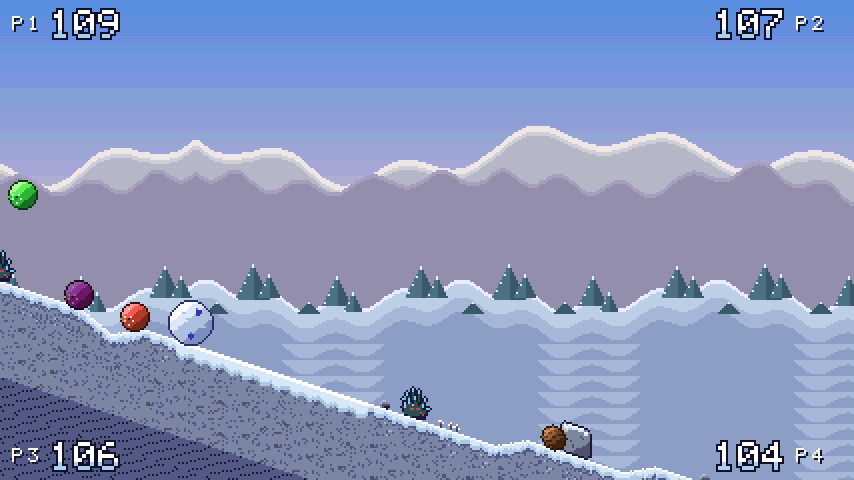
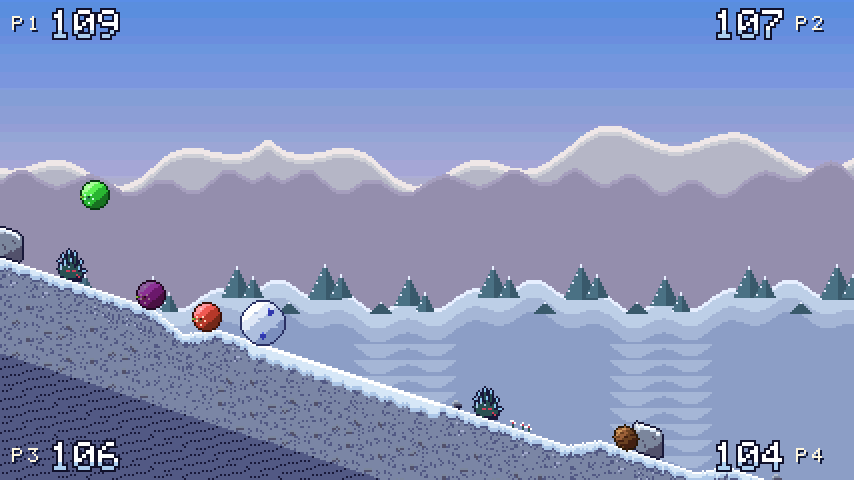
Blueberry Tumble: balanced wide view (a third of the extra width behind the berry)
The owner: at 427/520 the berry sat too far left and the right side looked empty. The columns beyond
320 are now shared out: WIDE_LEFT_SHARE_NUM / _DEN (src/tuning.h, 1/3) on the left, behind the berry,
the rest ahead. It is the stage origin (rs_screen_origin: 36 px at 427, 67 at 520, 80 at 560; 0 at
320), so the 320-px view (camera, shear pivot, berry at stage x 96) is drawn as before and the course,
beat sync, obstacles, scoring and physics are unchanged (the first obstacle at the same distance).
The playfield and mid-ground stream from the real left edge, the props and cones are drawn across the
screen, the palettes and the sky follow the real edges and centre; the left shows the passed course,
or the slope behind the start line (title included). The HUD and kit UI stay centred (hu_ui_x).
320 is byte-identical (pictures compared with the previous build). Checked: no bottom-left hole in the
sheared playfield over 20000-frame runs at 427/520/560. tests/wide_test.sh finds the 320 picture in
the wide one at the left share's column (the berry at screen x 132/163/176). Wide screenshots redone.

diff --git a/games/blueberrytumble/src/draw.c b/games/blueberrytumble/src/draw.c
@@ -21,14 +21,26 @@
 #include <stdio.h>
 #include <string.h>
 
-/* Widescreen (DESIGN.md "Widescreen"): the stage origin is 0, the screen shows the world further to the right. The
- * maps are 64 tiles wide at 320 columns and 128 on a wider screen (the playfield, the mid-ground and the UI rings
- * then hold more than the screen; the far layer holds its wider range and its mirror image: maps_setup). */
+/* Widescreen (DESIGN.md "Widescreen"): the columns beyond 320 are shared out, WIDE_LEFT_SHARE (tuning.h) on the left,
+ * behind the berry, the rest ahead on the right: the stage origin (wide_left()) is that many columns, so the 320-px
+ * stage (the berry at stage x PIVOT_X, the shear's pivot, the camera) is drawn exactly as at 320, and the screen shows
+ * stage x rs_screen_left() .. rs_screen_right(): the course already passed (or, at the start, the slope behind the
+ * start line) on the left, further down the slope on the right. The maps are 64 tiles wide at 320 columns and 128 on
+ * a wider screen (the playfield, the mid-ground and the UI rings then hold more than the screen; the far layer holds
+ * its wider range and its mirror image: maps_setup). */
 static int wide(void) { return rs_screen_width() > RS_SCREEN_W; }
 static int maps_w(void) { return wide() ? 128 : 64; }
+static int wide_left(void)
+{
+    int extra = rs_screen_width() - RS_SCREEN_W;
+    return extra > 0 ? (extra * WIDE_LEFT_SHARE_NUM + WIDE_LEFT_SHARE_DEN / 2) / WIDE_LEFT_SHARE_DEN : 0;
+}
 #define MAP_W (rs_bg_map_w(RS_BG2))         /* the playfield map: 64 (wide: 128) x 64 tiles, wrapping */
-/* the 16-px columns a wider screen shows beyond the 320 ones (streaming, props) */
+/* the 16-px columns a wider screen shows beyond the 320 ones (props), on the left (behind the stage's x 0) and on the
+ * right (past its x 320) of the stage (streaming) */
 static int extra_cols(void) { return (rs_screen_width() - RS_SCREEN_W + CELL - 1) / CELL; }
+static int left_cols(void) { return (-rs_screen_left() + CELL - 1) / CELL; }
+static int right_cols(void) { return (rs_screen_right() - RS_SCREEN_W + CELL - 1) / CELL; }
 #define GROUND_TROW 44                      /* the ground surface's tile row (map px 352) */
 #define GROUND_PY (GROUND_TROW * 8)
 #define MID_TROW 34                         /* the mid-ground band's first tile row on BG3 (64 rows: no wrap) */
@@ -87,10 +99,11 @@ static rs_color night_of(rs_color c)
 /* the playfield and mid-ground palettes: each slot loaded for the biome (and loop) it shows next */
 static void load_slot_palettes(int32_t cam_x)
 {
-    /* the playfield shows the biomes from the camera's left edge on; the mid-ground (parallax 1/2) those of the
-     * world x from cam_x - width to cam_x + width (stream_mid) */
-    int32_t b0 = cam_x < 0 ? 0 : cam_x / (BIOME_CELLS * CELL);
-    int32_t bl = cam_x - rs_screen_width() < 0 ? 0 : (cam_x - rs_screen_width()) / (BIOME_CELLS * CELL);
+    /* the playfield shows the biomes from the screen's left edge on (stage x rs_screen_left()); the mid-ground
+     * (parallax 1/2) those of the world x from cam_x - width (- the left share) on (stream_mid) */
+    int32_t xl = cam_x + rs_screen_left(), ml = cam_x - rs_screen_width() + rs_screen_left();
+    int32_t b0 = xl < 0 ? 0 : xl / (BIOME_CELLS * CELL);
+    int32_t bl = ml < 0 ? 0 : ml / (BIOME_CELLS * CELL);
     for (int s = 0; s < NBIOMES; s++) {
         int32_t bi = b0 + ((s - (int)(b0 % NBIOMES)) + NBIOMES) % NBIOMES;
         int loop = (int)(bi / NBIOMES);
@@ -117,7 +130,7 @@ static void load_slot_palettes(int32_t cam_x)
 /* the sky and the far mountains at the camera: the biome's colours, cross-faded over 512 px after a gate */
 static void sky_and_far(int32_t cam_x, int pulse)
 {
-    int32_t mid = cam_x + rs_screen_width() / 2;
+    int32_t mid = cam_x + rs_screen_left() + rs_screen_width() / 2;      /* the screen's centre */
     int32_t bi = mid < 0 ? 0 : mid / (BIOME_CELLS * CELL);
     int32_t into = mid - bi * BIOME_CELLS * CELL;
     int cur = bi >= NBIOMES ? NBIOMES : (int)bi;
@@ -186,6 +199,7 @@ void draw_init(void)
     hc.obj_vram = VR_OBJ;
     hc.obj_pal = 3;
     hc.box_glyphs = " SCOREBESTNWMDALPYIG0123456789!:-+";   /* only the glyphs the panel uses (VRAM) */
+    rs_screen_origin(wide_left());              /* widescreen: the left share of the extra columns (0 at 320) */
     hu_init(&hc);
     maps_setup();
     rs_tiles_load(VR_BG2, gm_pf_tiles, gm_pf_tile_count);
@@ -346,7 +360,8 @@ static void draw_column(const bt_course *c, int32_t col, int deep, int lobby)
 
 static void stream_playfield(const bt_course *c, int32_t cam_col, int lobby)
 {
-    int32_t want_lo = cam_col - 2, want_hi = cam_col + 23 + extra_cols();   /* widescreen: up to the real edge */
+    /* widescreen: from the real left edge up to the real right edge */
+    int32_t want_lo = cam_col - 2 - left_cols(), want_hi = cam_col + 23 + right_cols();
     int32_t deep_hi = wide() ? cam_col + (RS_SCREEN_W - CELL) / CELL : want_hi;   /* the columns drawn as at 320 */
     if (pf_col_hi < want_lo || pf_col_hi > want_hi + 1 || want_lo < pf_col_lo) {
         pf_col_hi = want_lo;
@@ -370,15 +385,16 @@ static void stream_playfield(const bt_course *c, int32_t cam_col, int lobby)
     }
 }
 
-/* the mid-ground: BG3 tile column u shows the biome whose ground enters the screen (its real right edge) with it */
+/* the mid-ground: BG3 tile column u shows the biome whose ground enters the screen (its real right edge: stage x
+ * rs_screen_right()) with it */
 static void stream_mid(int32_t cam_x)
 {
-    int sw = rs_screen_width(), mw = rs_bg_map_w(RS_BG3);
-    int32_t u_hi = (cam_x / 2 + sw) / 8 + 2;
+    int sw = rs_screen_width(), sr = rs_screen_right(), mw = rs_bg_map_w(RS_BG3);
+    int32_t u_hi = (cam_x / 2 + sr) / 8 + 2;
     if (mid_col_hi < u_hi - (mw - 4) || mid_col_hi > u_hi) mid_col_hi = u_hi - 44 - (sw - RS_SCREEN_W + 7) / 8;
     while (mid_col_hi < u_hi) {
         int32_t u = mid_col_hi;
-        int32_t wx = u * 16 - sw;
+        int32_t wx = u * 16 - sr;
         int b = course_biome_of_col(wx < 0 ? 0 : wx / CELL);
         int mx = (int)(((u % MID_W) + MID_W) % MID_W);
         int32_t rep = u >= 0 ? u / MID_W : (u - MID_W + 1) / MID_W;
@@ -496,7 +512,7 @@ void draw_events(const world *w)
 static void draw_props(const world *w, int t)
 {
     const bt_course *c = &w->course;
-    int32_t col0 = view_camx / CELL - 1;
+    int32_t col0 = (view_camx + rs_screen_left()) / CELL - 1;      /* from the screen's left edge to its right edge */
     for (int32_t col = col0; col < col0 + 22 + extra_cols(); col++) {
         const bt_col *k = shown_col(c, col, !w->started);
         int sx = col * CELL - view_camx + CELL / 2;
@@ -535,7 +551,7 @@ static void draw_props(const world *w, int t)
         const bt_cone *k = &c->cone[i % CONE_RING];
         if (k->gone || !w->started) continue;     /* the lobby: no cones (they belong to the patterns) */
         int kx = (int)(cone_x(k, xref) >> 16) - view_camx;
-        if (kx < -16 || kx > rs_screen_width() + 16) continue;
+        if (kx < rs_screen_left() - 16 || kx > rs_screen_right() + 16) continue;
         spr(SPR_CONE + (((unsigned)(-kx) / 4) & 3), kx - 8, screen_y(0, kx) - 15, 2, -1);
     }
 }
@@ -578,8 +594,8 @@ static void gate_name(int32_t pcol)
 }
 
 /* "ATTEMPT n" is cleared when it has rolled off the left edge: 420 px at 320 columns (as it always was); on a wider
- * screen (its UI layer 128 tiles wide, centred) once the whole 320-px UI row has left */
-static int attempt_end(void) { return wide() ? RS_SCREEN_W + hu_ui_x() + 4 : 420; }
+ * screen (its UI layer 128 tiles wide, centred) once the whole 320-px UI row has left (past stage x rs_screen_left()) */
+static int attempt_end(void) { return wide() ? RS_SCREEN_W + hu_ui_x() - rs_screen_left() + 4 : 420; }
 
 static void screen_text(const world *w, int state, int st_t, int best, int new_best, int attempt, const hu_standing *rs)
 {

diff --git a/games/blueberrytumble/src/tuning.h b/games/blueberrytumble/src/tuning.h
@@ -101,6 +101,10 @@
 #define VIEW_AHEAD   (320 - PIVOT_X)   /* px of course visible ahead of the berry (the reaction time) */
 #define GROUND_SCREEN_Y 172     /* the ground at the pivot, screen y, when the camera is at rest */
 #define CAM_TOP_MARGIN  56      /* the camera rises when the berry's top goes above this screen y */
+/* widescreen (DESIGN.md "Widescreen"): the share of the columns beyond 320 shown on the LEFT, behind the berry (the
+ * rest is ahead, on the right): the stage origin, rounded (1/3: 36 px at 427, 67 at 520, 80 at 560; 0 at 320) */
+#define WIDE_LEFT_SHARE_NUM 1
+#define WIDE_LEFT_SHARE_DEN 3
 
 /* ---- flow ---------------------------------------------------------------------------------------------------------- */
 #define START_CELLS  24         /* flat ground before the first pattern (the run starts at x = 0, bar 0) */

diff --git a/games/blueberrytumble/DESIGN.md b/games/blueberrytumble/DESIGN.md
@@ -204,10 +204,15 @@ while one is alive, and the results rank their distances and scores.
 
 ## Widescreen (docs/spec.md "Widescreen")
 The game opts in (`max_width` = 560, `WIDESCREEN_blueberrytumble = 1`): 320 (4:3) is unchanged pixel for pixel; at
-427 (16:9) or 520 (phones) **the world is simply revealed wider**, to the right (the stage origin stays 0).
-- The berries roll at the same screen x (96, P2-P4 behind) and the screen shows further down the slope: on the steep
-  biomes the ground leaves the bottom of the screen sooner, the valley (mid-ground, far range) shows there. Seeing
-  further makes it a little easier; the owner accepts it (no compensation).
+427 (16:9) or 520 (phones) **the world is simply revealed wider**, on both sides of the 320-px view, which is drawn as
+at 320: **a third of the extra columns on the left, behind the berry, two thirds on the right**, ahead
+(`WIDE_LEFT_SHARE_NUM / _DEN` in src/tuning.h: the stage origin, 36 px at 427, 67 at 520, 80 at 560). With all of it
+on the right (origin 0), the berry sat too close to the left edge and the right looked empty (the owner).
+- The berries roll at stage x 96 (P2-P4 behind): screen x 96 + the left share (132 at 427, 163 at 520). On the left
+  the screen shows the slope already rolled down (at the start and on the title: the flat ground and the scenery
+  behind the start line); on the right it shows further down the slope: on the steep biomes the ground leaves the
+  bottom of the screen sooner, the valley (mid-ground, far range) shows there. Seeing further makes it a little easier;
+  the owner accepts it (no compensation). The camera, the shear's pivot and the course are those of 320.
 - **The course and the music are the same at every width.** The director writes the same patterns on the same beats
   (it already writes 40 columns ahead of the berry, past any screen's edge). **Every width starts exactly like 320**
   (the owner's rule for side-scrollers: no longer run-up on a wide screen): the course clock from 0, the first pattern
@@ -220,15 +225,16 @@ The game opts in (`max_width` = 560, `WIDESCREEN_blueberrytumble = 1`): 320 (4:3
 - `tests/wide_test.sh` checks it: the same seed gives, frame for frame (offset 0), the same first pattern instance (its
   frame and column), the same events (pads, dew drops, glides, snow, smashes, golden blueberries, the splats) at the
   same metres, the same pattern instances and the same final state at 320, 427, 520 and 560 (1 to 4 players). The
-  screen-reading bot plays the same run at every width.
+  screen-reading bot plays the same run at every width. It checks the left share too: the 320 picture is found in
+  the wide one at the left share's column (the berry at screen x 96 + the share).
 - The playfield, the mid-ground and the UI layer are 128 tiles wide on a wide screen (64 at 320): the playfield and the
-  mid-ground stream up to the real right edge (the mid-ground's columns take the biome of the ground that enters the
-  screen with them), the props, cones and gusts are drawn up to it, the sky's colours fade at the gates by the
-  screen's centre. The mid-ground's 128-px bands are made to repeat (ridges, pines, bushes, roofs).
+  mid-ground stream from the real left edge up to the real right edge (the mid-ground's columns take the biome of the
+  ground that enters the screen with them), the props, cones and gusts are drawn across it, the sky's colours fade at
+  the gates by the screen's centre. The mid-ground's 128-px bands are made to repeat (ridges, pines, bushes, roofs).
 - The sheared playfield reads higher in its 64-row map columns the further right it is: on a wide screen the top right
   (a high camera, a steep biome) would wrap round to a column's deepest soil. So a column enters a wide screen with
   its 10 deepest rows empty (more sky above it; only a little soil shows at the bottom right, where the ground leaves
-  the screen) and gets them once it is within the first 320 columns, where it is drawn exactly as at 320.
+  the screen) and gets them once it is within the stage's 320 columns, where it is drawn exactly as at 320.
 - The far mountains: their 256-px range would show twice on a wide screen; there they are a **wider range** (512 px,
   the same ridges, colours and sizes of peaks, other periods and phases: tools/make_art.py `build_far_wide`) followed by
   its mirror image on the 128-tile map (1024 px before anything repeats). Its 167 tiles replace the 68 of the 4:3 range
